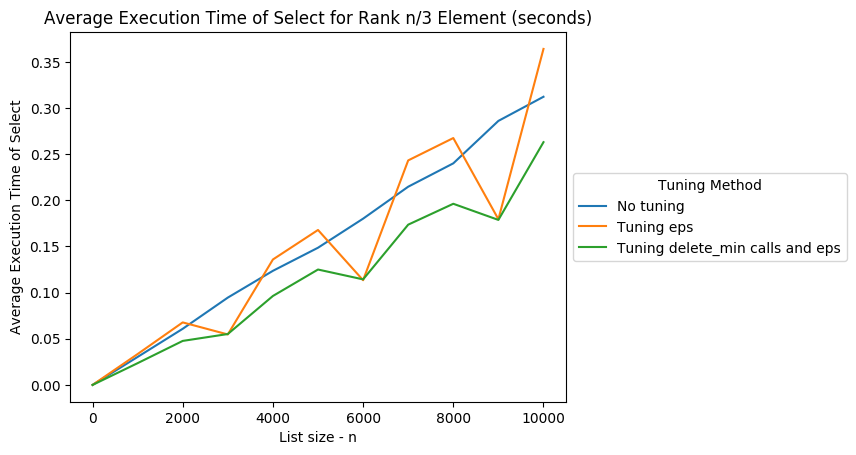
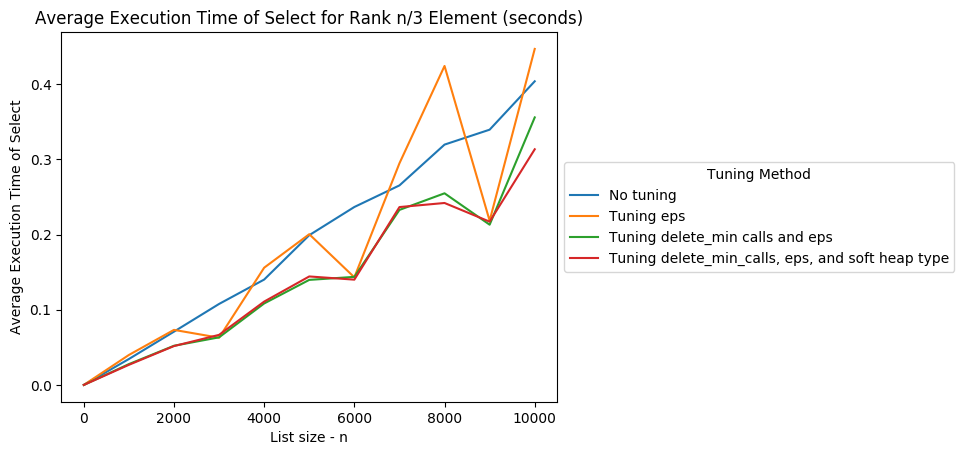
Implemented tuning method that chooses between min and max soft heap

diff --git a/linear_select.py b/linear_select.py
@@ -59,11 +59,35 @@ def select(k, lst, method, viz=None):
 		else:
 			delete_min_calls = k
 			eps = r
-	# print(n)
+	elif method == 4:
+		# Varies delete_min_calls and eps, tune choice of soft heap (min vs. max)
+		r = k/n
+		max_heap = False
+
+		if r > 1/2:
+			k_h = n - k + 1
+			r_h = k_h/n
+			max_heap = True
+		else:
+			k_h = k
+			r_h = r
+			max_heap = False
+
+		if r_h >= 1/3:
+			delete_min_calls = max(1, math.floor(n/3))
+			eps = r_h - 1/3
+		else:
+			delete_min_calls = k_h
+			eps = r_h
 
 	sheap = SoftHeap(eps)
-	for elem in lst:
-		sheap.insert(elem)
+	if method == 4 and max_heap:
+		lst_h = [-e for e in lst]
+		for elem in lst_h:
+			sheap.insert(elem)
+	else:
+		for elem in lst:
+			sheap.insert(elem)
 
 	max_seen = float('-inf')
 	for i in range(delete_min_calls):
@@ -72,6 +96,9 @@ def select(k, lst, method, viz=None):
 		sheap.delete_min()
 		if elem > max_seen:
 			max_seen = elem
+
+	if method == 4 and max_heap:
+		max_seen = -max_seen
 
 	L, R = partition(max_seen, lst)
 	if viz:
@@ -90,19 +117,20 @@ def run_exp1(t):
 	ks = list(range(0, 10001, 1000))
 	ks[0] = 1
 	
-	data = {'x': ks, 'y1': [], 'y2': [], 'y3': []}
+	data = {'x': ks, 'y1': [], 'y2': [], 'y3': [], 'y4': []}
 	
 	# Average execution time over t random permutations/orderings of a list of size 10000
 	for i in range(t):
-		print('i', i)
+		# print('i', i)
 		lst = np.random.permutation(list(range(1, 10001)))
 
 		y1 = []
 		y2 = []
 		y3 = []
+		y4 = []
 
 		for k in ks:
-			print('k', k)
+			# print('k', k)
 			# Average execution time of select k on lst over 100 run
 			t = timeit.timeit(functools.partial(select, k, lst, 1), number=10)/10
 			y1.append(t)
@@ -110,26 +138,30 @@ def run_exp1(t):
 			y2.append(t)
 			t = timeit.timeit(functools.partial(select, k, lst, 3), number=10)/10
 			y3.append(t)
+			t = timeit.timeit(functools.partial(select, k, lst, 4), number=10)/10
+			y4.append(t)
 
 		data['y1'].append(y1)
 		data['y2'].append(y2)
 		data['y3'].append(y3)
+		data['y4'].append(y4)
 
 	data['y1'] = np.mean(np.array(data['y1']), axis=0)
 	data['y2'] = np.mean(np.array(data['y2']), axis=0)
 	data['y3'] = np.mean(np.array(data['y3']), axis=0)
+	data['y4'] = np.mean(np.array(data['y4']), axis=0)
 	# print(data['y1'].shape[0] == len(ks))
 
 	return data
 
 def make_plot1(data, filename):
 	fig, ax = plt.subplots()
-	for i in range(1, 4):
+	for i in range(1, 5):
 		ax.plot(data['x'], data['y' + str(i)])
 	ax.set_xlabel('Rank of Element to Select - k')
 	ax.set_ylabel('Average Execution Time of Select (seconds)')
 	ax.set_title('Average Execution Time of Select (seconds)')
-	lgd = plt.legend(['No tuning', 'Tuning eps', 'Tuning delete_min calls and eps'], title='Tuning Method', loc='center left', bbox_to_anchor=(1, 0.5))
+	lgd = plt.legend(['No tuning', 'Tuning eps', 'Tuning delete_min calls and eps', 'Tuning delete_min_calls, eps, and soft heap type'], title='Tuning Method', loc='center left', bbox_to_anchor=(1, 0.5))
 	plt.savefig(filename, bbox_extra_artists=(lgd,), bbox_inches='tight', format='png')
 
 # Run experiment on select k execution time for different list sizes (defaults to selecting minimum)
@@ -138,7 +170,7 @@ def run_exp2(p=None):
 	lst_sizes = list(range(0, 10001, 1000))
 	lst_sizes[0] = 1
 	
-	data = {'x': lst_sizes, 'y1': [], 'y2': [], 'y3': []}
+	data = {'x': lst_sizes, 'y1': [], 'y2': [], 'y3': [], 'y4': []}
 	
 	for n in lst_sizes:
 		lst = np.random.permutation(list(range(1, n + 1)))
@@ -146,7 +178,7 @@ def run_exp2(p=None):
 			k = 1
 		else:
 			k = math.ceil(n * p)
-		print(n, k)
+		# print(n, k)
 
 		t = timeit.timeit(functools.partial(select, k, lst, 1), number=10)/10
 		data['y1'].append(t)
@@ -154,55 +186,69 @@ def run_exp2(p=None):
 		data['y2'].append(t)
 		t = timeit.timeit(functools.partial(select, k, lst, 3), number=10)/10
 		data['y3'].append(t)
+		t = timeit.timeit(functools.partial(select, k, lst, 4), number=10)/10
+		data['y4'].append(t)
 
 	return data
 
 def make_plot2(data, title, filename):
 	fig, ax = plt.subplots()
-	for i in range(1, 4):
+	for i in range(1, 5):
 		ax.plot(data['x'], data['y' + str(i)])
 	ax.set_xlabel('List size - n')
 	ax.set_ylabel('Average Execution Time of Select')
 	ax.set_title(title)
-	lgd = plt.legend(['No tuning', 'Tuning eps', 'Tuning delete_min calls and eps'], title='Tuning Method', loc='center left', bbox_to_anchor=(1, 0.5))
+	lgd = plt.legend(['No tuning', 'Tuning eps', 'Tuning delete_min calls and eps', 'Tuning delete_min_calls, eps, and soft heap type'], title='Tuning Method', loc='center left', bbox_to_anchor=(1, 0.5))
 	plt.savefig(filename, bbox_extra_artists=(lgd,), bbox_inches='tight', format='png')
 
 def main():
-	# # Sanity check that select is working correctly
-	# k = 1
-	# lst = np.random.permutation(list(range(1, 10001)))
-	# # lst = list(range(1, 10001))
-	# print('No tuning')
-	# # print(select(k, lst, 1))
-	# t = timeit.timeit(functools.partial(select, k, lst, 1), number=10)/10
-	# print(t)
-	# print('Tuning eps')
-	# # print(select(k, lst, 2))
-	# t = timeit.timeit(functools.partial(select, k, lst, 2), number=10)/10
-	# print(t)
-	# print('Tuning delete_min calls and eps')
-	# # print(select(k, lst, 3))
-	# t = timeit.timeit(functools.partial(select, k, lst, 3), number=10)/10
-	# print(t)
+	# Sanity check that select is working correctly
+	k = 10000
+	lst = np.random.permutation(list(range(1, 10001)))
+	# lst = list(range(1, 10001))
 
-	# Runs experiment on select k, varying methods for choosing selection parameters affecting the pivot
-	data = run_exp1(t=1)
-	make_plot1(data, 'exp1.png')
+	print('No tuning')
+	print(select(k, lst, 1))
+	t = timeit.timeit(functools.partial(select, k, lst, 1), number=10)/10
+	print('Execution time:', t)
+	print('')
 
-	data = run_exp2()
-	make_plot2(data, 'Average Execution Time of Select for Minimum Element (seconds)', 'exp2_min.png')
+	print('Tuning eps')
+	print(select(k, lst, 2))
+	t = timeit.timeit(functools.partial(select, k, lst, 2), number=10)/10
+	print('Execution time:', t)
+	print('')
 
-	data = run_exp2(p=1/3)
-	make_plot2(data, 'Average Execution Time of Select for Rank n/3 Element (seconds)', 'exp2_third.png')
+	print('Tuning delete_min calls and eps')
+	print(select(k, lst, 3))
+	t = timeit.timeit(functools.partial(select, k, lst, 3), number=10)/10
+	print('Execution time:', t)
+	print('')
 
-	data = run_exp2(p=1/2)
-	make_plot2(data, 'Average Execution Time of Select for Median Element (seconds)', 'exp2_median.png')
+	print('Tuning delete_min calls and eps, tune choice of soft heap')
+	print(select(k, lst, 4))
+	t = timeit.timeit(functools.partial(select, k, lst, 4), number=10)/10
+	print('Execution time:', t)
+	print('')
 
-	data = run_exp2(p=2/3)
-	make_plot2(data, 'Average Execution Time of Select for Rank 2n/3 Element (seconds)', 'exp2_twothirds.png')
+	# # Runs experiment on select k, varying methods for choosing selection parameters affecting the pivot
+	# data = run_exp1(t=1)
+	# make_plot1(data, 'exp1.png')
 
-	data = run_exp2(p=1)
-	make_plot2(data, 'Average Execution Time of Select for Maximum Element (seconds)', 'exp2_max.png')
+	# data = run_exp2()
+	# make_plot2(data, 'Average Execution Time of Select for Minimum Element (seconds)', 'exp2_min.png')
+
+	# data = run_exp2(p=1/3)
+	# make_plot2(data, 'Average Execution Time of Select for Rank n/3 Element (seconds)', 'exp2_third.png')
+
+	# data = run_exp2(p=1/2)
+	# make_plot2(data, 'Average Execution Time of Select for Median Element (seconds)', 'exp2_med.png')
+
+	# data = run_exp2(p=2/3)
+	# make_plot2(data, 'Average Execution Time of Select for Rank 2n/3 Element (seconds)', 'exp2_twothirds.png')
+
+	# data = run_exp2(p=1)
+	# make_plot2(data, 'Average Execution Time of Select for Maximum Element (seconds)', 'exp2_max.png')
 
 if __name__ == '__main__':
 	main()

diff --git a/select_visualization.py b/select_visualization.py
@@ -7,5 +7,5 @@ lst = np.random.permutation(list(range(1, 101)))
 k = 100
 
 viz = SelectVisualizer(sheap_mode=True)
-select(k, lst, 3, viz=viz)
+select(k, lst, 4, viz=viz)
 viz.viz()
